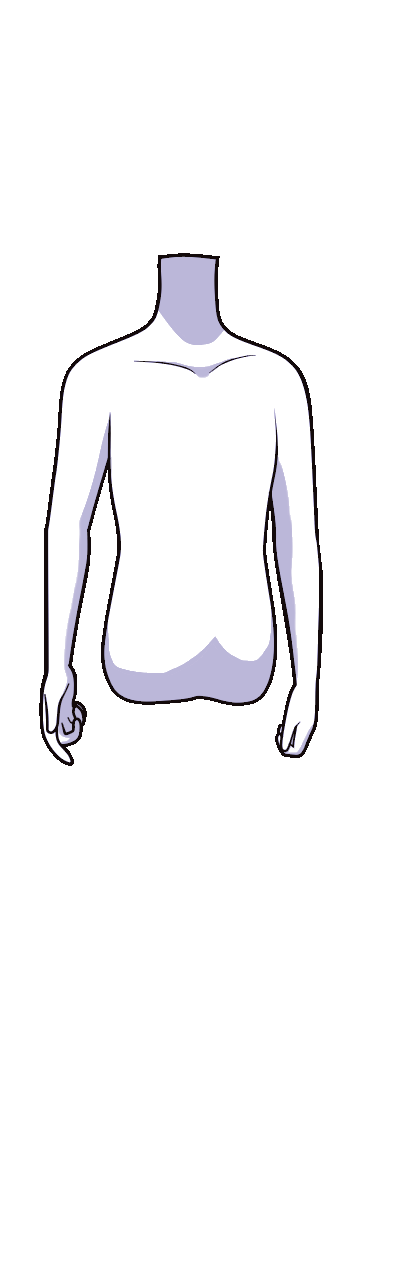
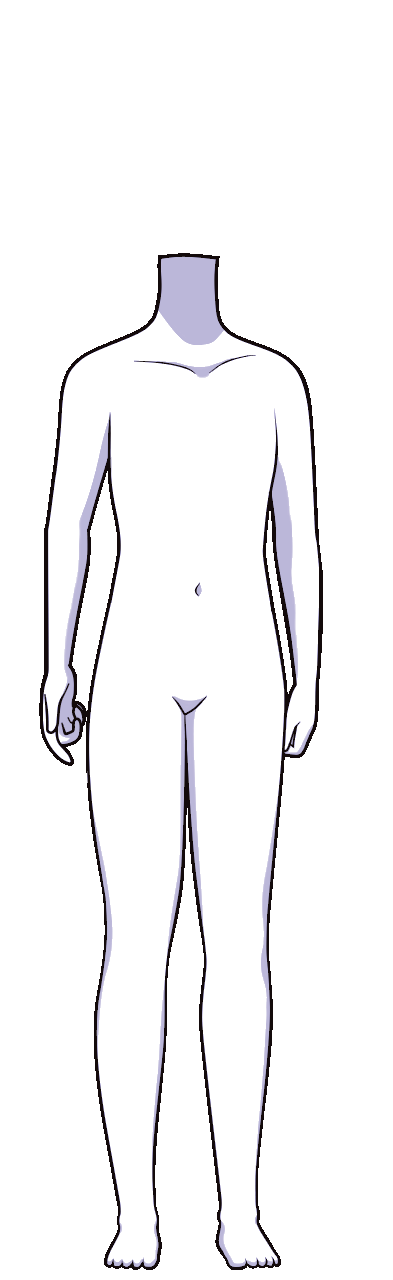
removed legs

diff --git a/code/generated.js b/code/generated.js
@@ -15,7 +15,7 @@ const no_render_list = [["hat_middle",["scarf",]],["hat_front_dec",["scarf",]],[
 const scheme_list = [["#774F38","#E08E79","#F1D4AF","#ECE5CE","#C5E0DC",],["#1693A5","#45B5C4","#7ECECA","#A0DED6","#C7EDE8",],["#D24858","#EA8676","#EAB05E","#FDEECD","#493831",],["#165C8E","#28506D","#405961","#504C3D","#403D27",],["#30261C","#403831","#36544F","#1F5F61","#0B8185",],["#1C0113","#6B0103","#A30006","#C21A01","#F03C02",],["#EFE2C0","#93D7DB","#A26156","#ADD9D5","#FCECCA",],["#F8B195","#F67280","#C06C84","#6C5B7B","#355C7D",],["#2A044A","#0B2E59","#0D6759","#7AB317","#A0C55F",],["#300030","#480048","#601848","#C04848","#F07241",],["#ECD078","#D95B43","#C02942","#542437","#53777A",],["#A8E6CE","#DCEDC2","#FFD3B5","#FFAAA6","#FF8C94",],["#69D2E7","#A7DBD8","#E0E4CC","#F38630","#FA6900",],["#111625","#341931","#571B3C","#7A1E48","#9D2053",],["#413E4A","#73626E","#B38184","#F0B49E","#F7E4BE",],];
 const no_fill_list = ["mouth",];
 const pattern_list = ["none","crocodile","rose","flowers","snake","damask","camoflage","clouds","crosshatch","fabric","dirty","spots","diamonds","small diamonds","tartan","polkadot","kimono","horizontal stripe","vertical stripe","pinstripe","horizontal pinstripe","net","diagonal",];
-const skin_list = ["body","nose","mouth","eyebrows","complexion","ears","body_chest","skull","legs","chair_legs","nose_front",];
+const skin_list = ["body","nose","mouth","eyebrows","complexion","ears","body_chest","skull","chair_body","nose_front",];
 const skin_list_defining = ["body","nose","mouth","eyebrows","complexion","ears","body_chest",];
 const eyetype_list_f = ["medium eyelashes","down-turned","up-turned","pointed","animal","long eyelashes",];
 const eyetype_list_m = ["short eyelashes","medium eyelashes","down-turned","up-turned","pointed","animal",];
@@ -31,8 +31,8 @@ const hat_list = [["none","beads","head band","side bow","bow","tiara","scarf","
 const expression_list = ["cheeks","mouth","eyebrows","eyes",];
 const outfit_list = ["bottom","top","overshirt","coat","socks","shoes","chair",];
 const has_sleeves_list = ["top","overshirt","coat",];
-const hourglass_list = ["top","overshirt","waistline","body","legs",];
-const butt_list = ["shoes","legs","coat","bottom","socks","overshirt",];
+const hourglass_list = ["top","overshirt","waistline","body",];
+const butt_list = ["shoes","body","coat","bottom","socks","overshirt",];
 const sleeve_list = ["top_sleeves","overshirt_sleeves","coat_sleeves",];
 const accessory_list = ["eyewear","neckwear","earrings","gloves","back","hat",];
 const defining_list = ["eyewear","neckwear","earrings","gloves","back","bottom","top","overshirt","coat","socks","shoes","chair","top_sleeves","overshirt_sleeves","coat_sleeves","body","nose","mouth","eyebrows","complexion","ears","body_chest","cheeks","eyes","fringe","hair_extra","sidelocks","facial_hair","head","waistline",];
@@ -45,7 +45,6 @@ const hair_back_list_d = [["none","balding","buzzcut","straight short","curly sh
 const coat_back_list_d = [["none","medium cloak","wrap","cape","bolero","overcoat","short jacket","dress jacket","business jacket","buttoned jacket","cool jacket","open robe","closed robe","open sweater","long open jacket","hoodie",],["none","medium cloak","wrap","cape","bolero","overcoat","short jacket","dress jacket","business jacket","buttoned jacket","cool jacket","open robe","closed robe","open sweater","long open jacket","hoodie",],[],[],[],true];
 const body_list_d = [["regular",],["regular",],[],[],[],true];
 const body_chest_list_d = [["none","small","medium","big",],["none",],[],[],[],true];
-const leg_list_d = [["none","regular",],["none","regular",],[],[],[],true];
 const socks_list_d = [["none","ankle high","mid calf","knee high","thigh high","tights",],["none","ankle high","mid calf",],[],[],[],true];
 const shoes_list_d = [["none","sandals","slip ons","sneakers","pumps","mary janes","high boots",],["none","sandals","slip ons","sneakers","boots",],[],["boots","sneakers",],[],false];
 const shoes_list_d_dec = [["boots","sneakers",],["boots","sneakers",],[],[],[],true];
@@ -119,7 +118,6 @@ add_image_object("body",body_list_d,"anatomy")
 add_defining_object("body",body_list_d)
 add_image_object("body_chest",body_chest_list_d,"anatomy/chest")
 add_defining_object("body_chest",body_chest_list_d)
-add_image_object("legs",leg_list_d,"anatomy")
 add_image_object("socks",socks_list_d,"clothes")
 add_defining_object("socks",socks_list_d)
 add_image_object("shoes",shoes_list_d,"clothes")
@@ -197,7 +195,7 @@ add_image_object("hat_front",hat_front_list_d,"clothes/hat")
 add_image_object("hat_front_dec",hat_front_list_d_dec,"clothes/hat")
 add_image_object("chair",chair_list_d,"chair")
 add_defining_object("chair",chair_list_d)
-add_image_object("chair_legs",chair_leg_list_d,"chair")
+add_image_object("chair_body",chair_leg_list_d,"chair")
 add_image_object("chair_socks",chair_socks_list_d,"chair")
 add_image_object("chair_shoes",chair_shoes_list_d,"chair")
 add_image_object("chair_shoes_dec",chair_shoes_list_d_dec,"chair")

diff --git a/code/lists_of_objects.js b/code/lists_of_objects.js
@@ -111,7 +111,7 @@ for (i = 0; i < defining_objects.length; i += 1){
 //anatomy        
 add_colour_children("head", skin_list);
 
-add_value_children("body", ["legs", "chair_legs"]);
+add_value_children("body", ["chair_body"]);
 add_value_children("nose", ["nose_front"]);
 
 add_colour_children("fringe", ["hair_middle", "hair_front","hair_back","hair_extra", "facial_hair","sidelocks","sidelocks_repeat"]);

diff --git a/code/generate_images.py b/code/generate_images.py
@@ -248,7 +248,7 @@ facial_hair_list_render = [f for f in facial_hair_list_m if f!="stubble"]
 
 # collections of parts that have the same colours and patterns
 skin_list_defining = ["body","nose","mouth","eyebrows","complexion","ears","body_chest"]#same colour as head
-skin_list = skin_list_defining + ["skull","legs","chair_legs","nose_front"]
+skin_list = skin_list_defining + ["skull","chair_body","nose_front"]
 expression_list = ["cheeks", "mouth","eyebrows","eyes"]
 accessory_list = ["eyewear","neckwear", "earrings", "gloves","back"]
 outfit_list = [ "bottom","top", "overshirt", "coat", "socks","shoes","chair"]
@@ -286,8 +286,8 @@ chair_coat_list_d = default_list(chair_coat_list)
 
 highlight_list = ["fringe"]
 underlay_list = ["eyewear"]
-hourglass_list = ["top","overshirt","waistline","body","legs"]
-butt_list = ["shoes", "legs","coat","bottom","socks","overshirt"]
+hourglass_list = ["top","overshirt","waistline","body"]
+butt_list = ["shoes", "body","coat","bottom","socks","overshirt"]
 no_render_list = [["hat_middle",["scarf"]],["hat_front_dec",["scarf"]],["chair",["invisible"]],["chair_back",["invisible"]],["chair_dec",["invisible"]],["chair_back_dec",["invisible"]]]
 
 ###################### More technical stuff from here on
@@ -325,7 +325,6 @@ add_item("hair_back", "hair_back_list_d",hair_back_list_d, "hair")
 add_item("coat_back", "coat_back_list_d",coat_back_list_d, "clothes/coat")
 add_item("body", "body_list_d", body_list_d, "anatomy")
 add_item("body_chest", "body_chest_list_d", body_chest_list_d, "anatomy/chest")
-add_item("legs", "leg_list_d", leg_list_d, "anatomy")
 
 add_item("socks", "socks_list_d", socks_list_d, "clothes")
 add_item("shoes", "shoes_list_d", shoes_list_d, "clothes")
@@ -376,7 +375,7 @@ add_item("fringe", "fringe_list_d", fringe_list_d, "hair")
 add_item("hat_front", "hat_front_list_d", hat_front_list_d, "clothes/hat")
 
 add_item("chair", "chair_list_d", chair_list_d, "chair")
-add_item("chair_legs", "chair_leg_list_d", chair_leg_list_d, "chair")
+add_item("chair_body", "chair_leg_list_d", chair_leg_list_d, "chair")
 add_item("chair_socks", "chair_socks_list_d", chair_socks_list_d, "chair")
 add_item("chair_shoes", "chair_shoes_list_d", chair_shoes_list_d, "chair")
 add_item("chair_bottom", "chair_bottom_list_d", chair_bottom_list_d, "chair")
@@ -538,9 +537,9 @@ def makeButts():
 def makeChairParts():
     # (save, thighs, base, mask, lines)
     for obj in closet:
-        if obj.name == "legs":
+        if obj.name == "body":
             print("Making legs!")  
-            imagemodule.makeChairPart("chair_legs/regular", "full","anatomy/legs/regular", "anatomy/legs/regular", "anatomy/legs/regular","base")
+            imagemodule.makeChairPart("chair_body/regular", "full","anatomy/body/regular", "anatomy/body/regular", "anatomy/body/regular","base")
         else:
             makeLegs = True
             for item in obj.item_list:
@@ -561,8 +560,8 @@ def makeChairParts():
                             thighs = "socks"    
                         else:
                             thighs = "none"  
-                        mask = "anatomy/legs/regular" 
-                        lines = "anatomy/legs/regular"  
+                        mask = "anatomy/body/regular" 
+                        lines = "anatomy/body/regular"  
                     
                     elif obj.name == "bottom":
                         mask = "clothes/bottom/regular" 
@@ -702,7 +701,7 @@ def process_all_portraits():
 def runStuff():
     write_variables()
 
-    # "skull", "head","body","legs",
+    # "skull", "head","body"
     #"nose","nose_front", "cheeks", "ears"
     # "eyes","eyebrows", "mouth"
     # "body_chest","top_chest","overshirt_chest","coat_chest"
@@ -723,11 +722,11 @@ def runStuff():
     #"back","socks","shoes","gloves"
     
     for c in closet:
-        if c.name in []:
+        if c.name in ["body"]:
             process_portrait_part(c)
-    #makeChairParts()
+    makeChairParts()
     makeButts() 
-    #makeHourglass()        
+    makeHourglass()        
     #makeWinks()
     #makeStubble() 
 
